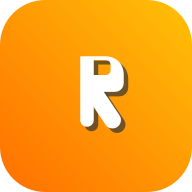
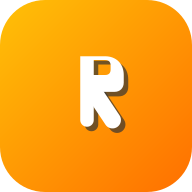
更新图标为新的橙色渐变设计，更新Navbar显示实际图标

diff --git a/app/components/Navbar.tsx b/app/components/Navbar.tsx
@@ -6,16 +6,22 @@ export default function Navbar() {
       <div className="max-w-7xl mx-auto px-4 sm:px-6 lg:px-8">
         <div className="flex justify-between items-center h-16">
           <Link href="/" className="flex items-center space-x-2">
-            <div className="w-8 h-8 bg-gradient-to-br from-purple-500 to-blue-500 rounded-lg flex items-center justify-center">
-              <span className="text-white font-bold text-xl">R</span>
+            <div className="w-8 h-8 relative flex-shrink-0">
+              <img
+                src="/icon.svg"
+                alt="RandomHub Logo"
+                width={32}
+                height={32}
+                className="rounded-lg"
+              />
             </div>
-            <span className="text-2xl font-bold bg-gradient-to-r from-purple-600 to-blue-600 bg-clip-text text-transparent">
+            <span className="text-2xl font-bold bg-gradient-to-r from-orange-600 to-orange-500 bg-clip-text text-transparent">
               RandomHub
             </span>
           </Link>
           <Link
             href="/privacy"
-            className="text-gray-700 hover:text-purple-600 font-medium transition-colors"
+            className="text-gray-700 hover:text-orange-600 font-medium transition-colors"
           >
             Privacy
           </Link>
